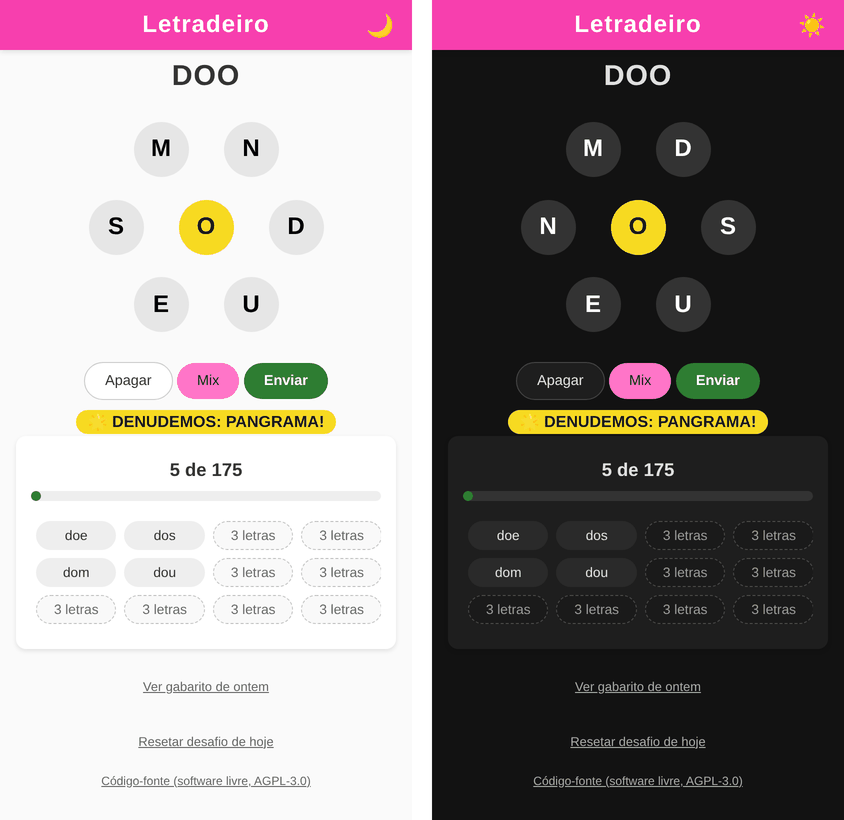
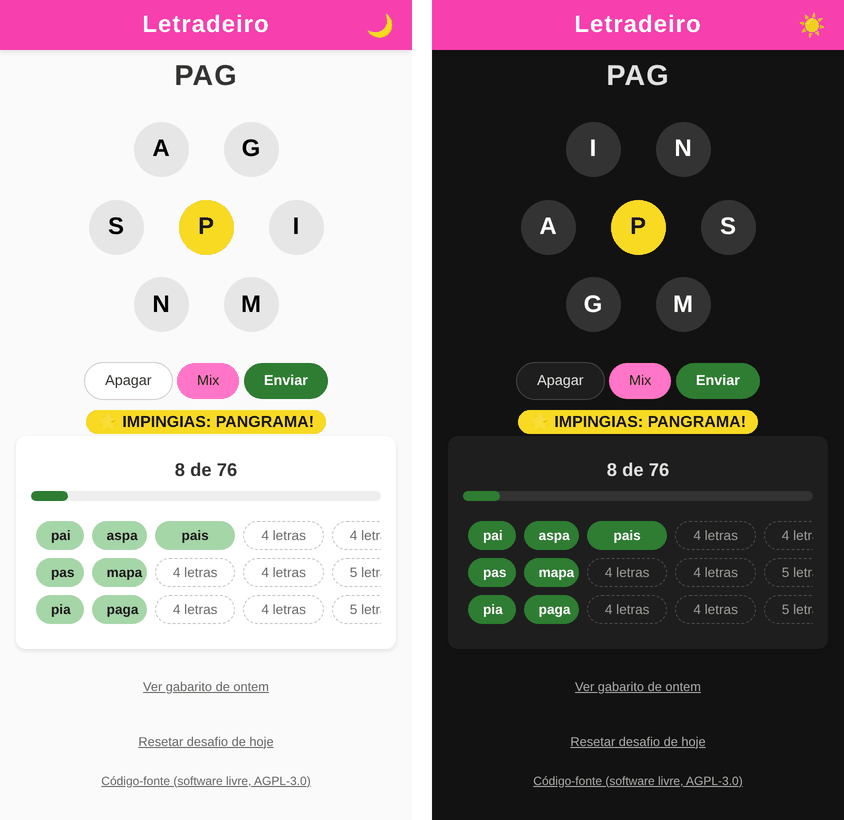
fix(front-end): palavras encontradas em verde, distintas das ocultas nos dois temas

diff --git a/styles.css b/styles.css
@@ -21,7 +21,9 @@
   --cor-chave: #f7da21;
 
   --cor-item-lista: #eeeeee;
-  --cor-item-oculto: #f9f9f9;
+  --cor-encontrada: #a5d6a7;
+  --cor-encontrada-texto: #1a1a1a;
+  --cor-item-oculto: transparent;
   --cor-item-oculto-borda: #c4c4c4;
   --cor-item-oculto-texto: #6b6b6b;
 
@@ -55,7 +57,9 @@ body.dark-mode {
   --cor-letra-texto: #ffffff;
 
   --cor-item-lista: #2a2a2a;
-  --cor-item-oculto: #1a1a1a;
+  --cor-encontrada: #2e7d32;
+  --cor-encontrada-texto: #ffffff;
+  --cor-item-oculto: transparent;
   --cor-item-oculto-borda: #4a4a4a;
   --cor-item-oculto-texto: #9a9a9a;
 
@@ -312,9 +316,15 @@ input:focus-visible {
   margin: 0;
 }
 
+/*
+ * Encontrada: pílula cheia e contrastante. Oculta: só o contorno tracejado.
+ * A diferença é de claridade e forma, não de matiz: funciona para
+ * daltônicos e até em tela em preto e branco.
+ */
 #lista li {
-  background: var(--cor-item-lista);
-  color: var(--cor-texto);
+  background: var(--cor-encontrada);
+  color: var(--cor-encontrada-texto);
+  font-weight: bold;
   padding: 6px 14px;
   border-radius: 15px;
   font-size: 0.85rem;
@@ -327,6 +337,7 @@ input:focus-visible {
 }
 
 #lista li.oculta {
+  font-weight: normal;
   color: var(--cor-item-oculto-texto);
   background: var(--cor-item-oculto);
   border: 1px dashed var(--cor-item-oculto-borda);

diff --git a/index.html b/index.html
@@ -10,9 +10,9 @@
     <meta name="theme-color" content="#f73fae" />
     <title>Letradeiro Diário</title>
     <link rel="icon" href="favicon.svg" type="image/svg+xml" />
-    <link rel="stylesheet" href="styles.css?v=2.1" />
+    <link rel="stylesheet" href="styles.css?v=2.5" />
     <script src="vendor/confetti.browser.js?v=1.6.0" defer></script>
-    <script src="script.js?v=2.1" defer></script>
+    <script src="script.js?v=2.5" defer></script>
   </head>
   <body>
     <header class="barra-titulo">
